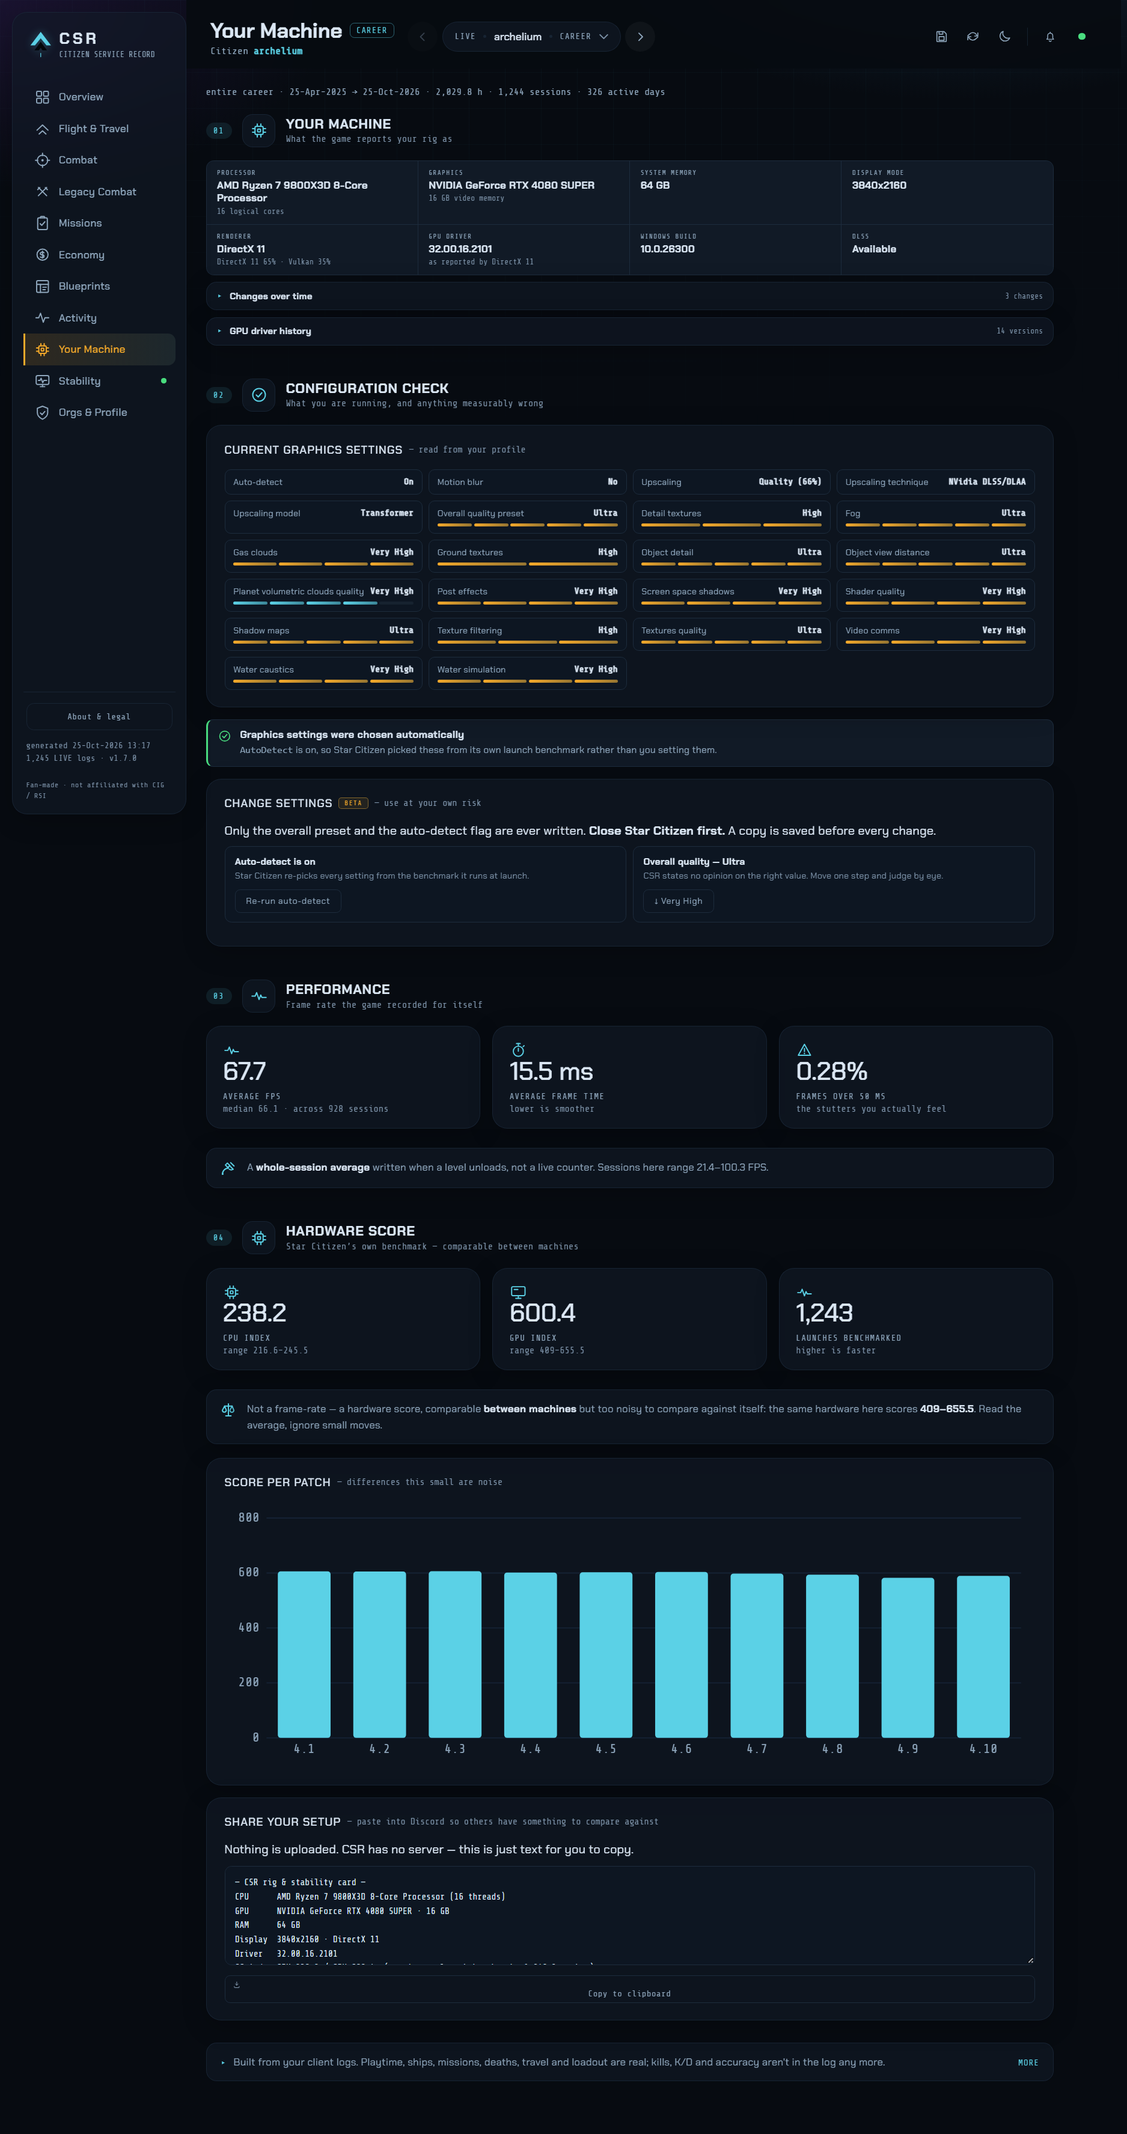
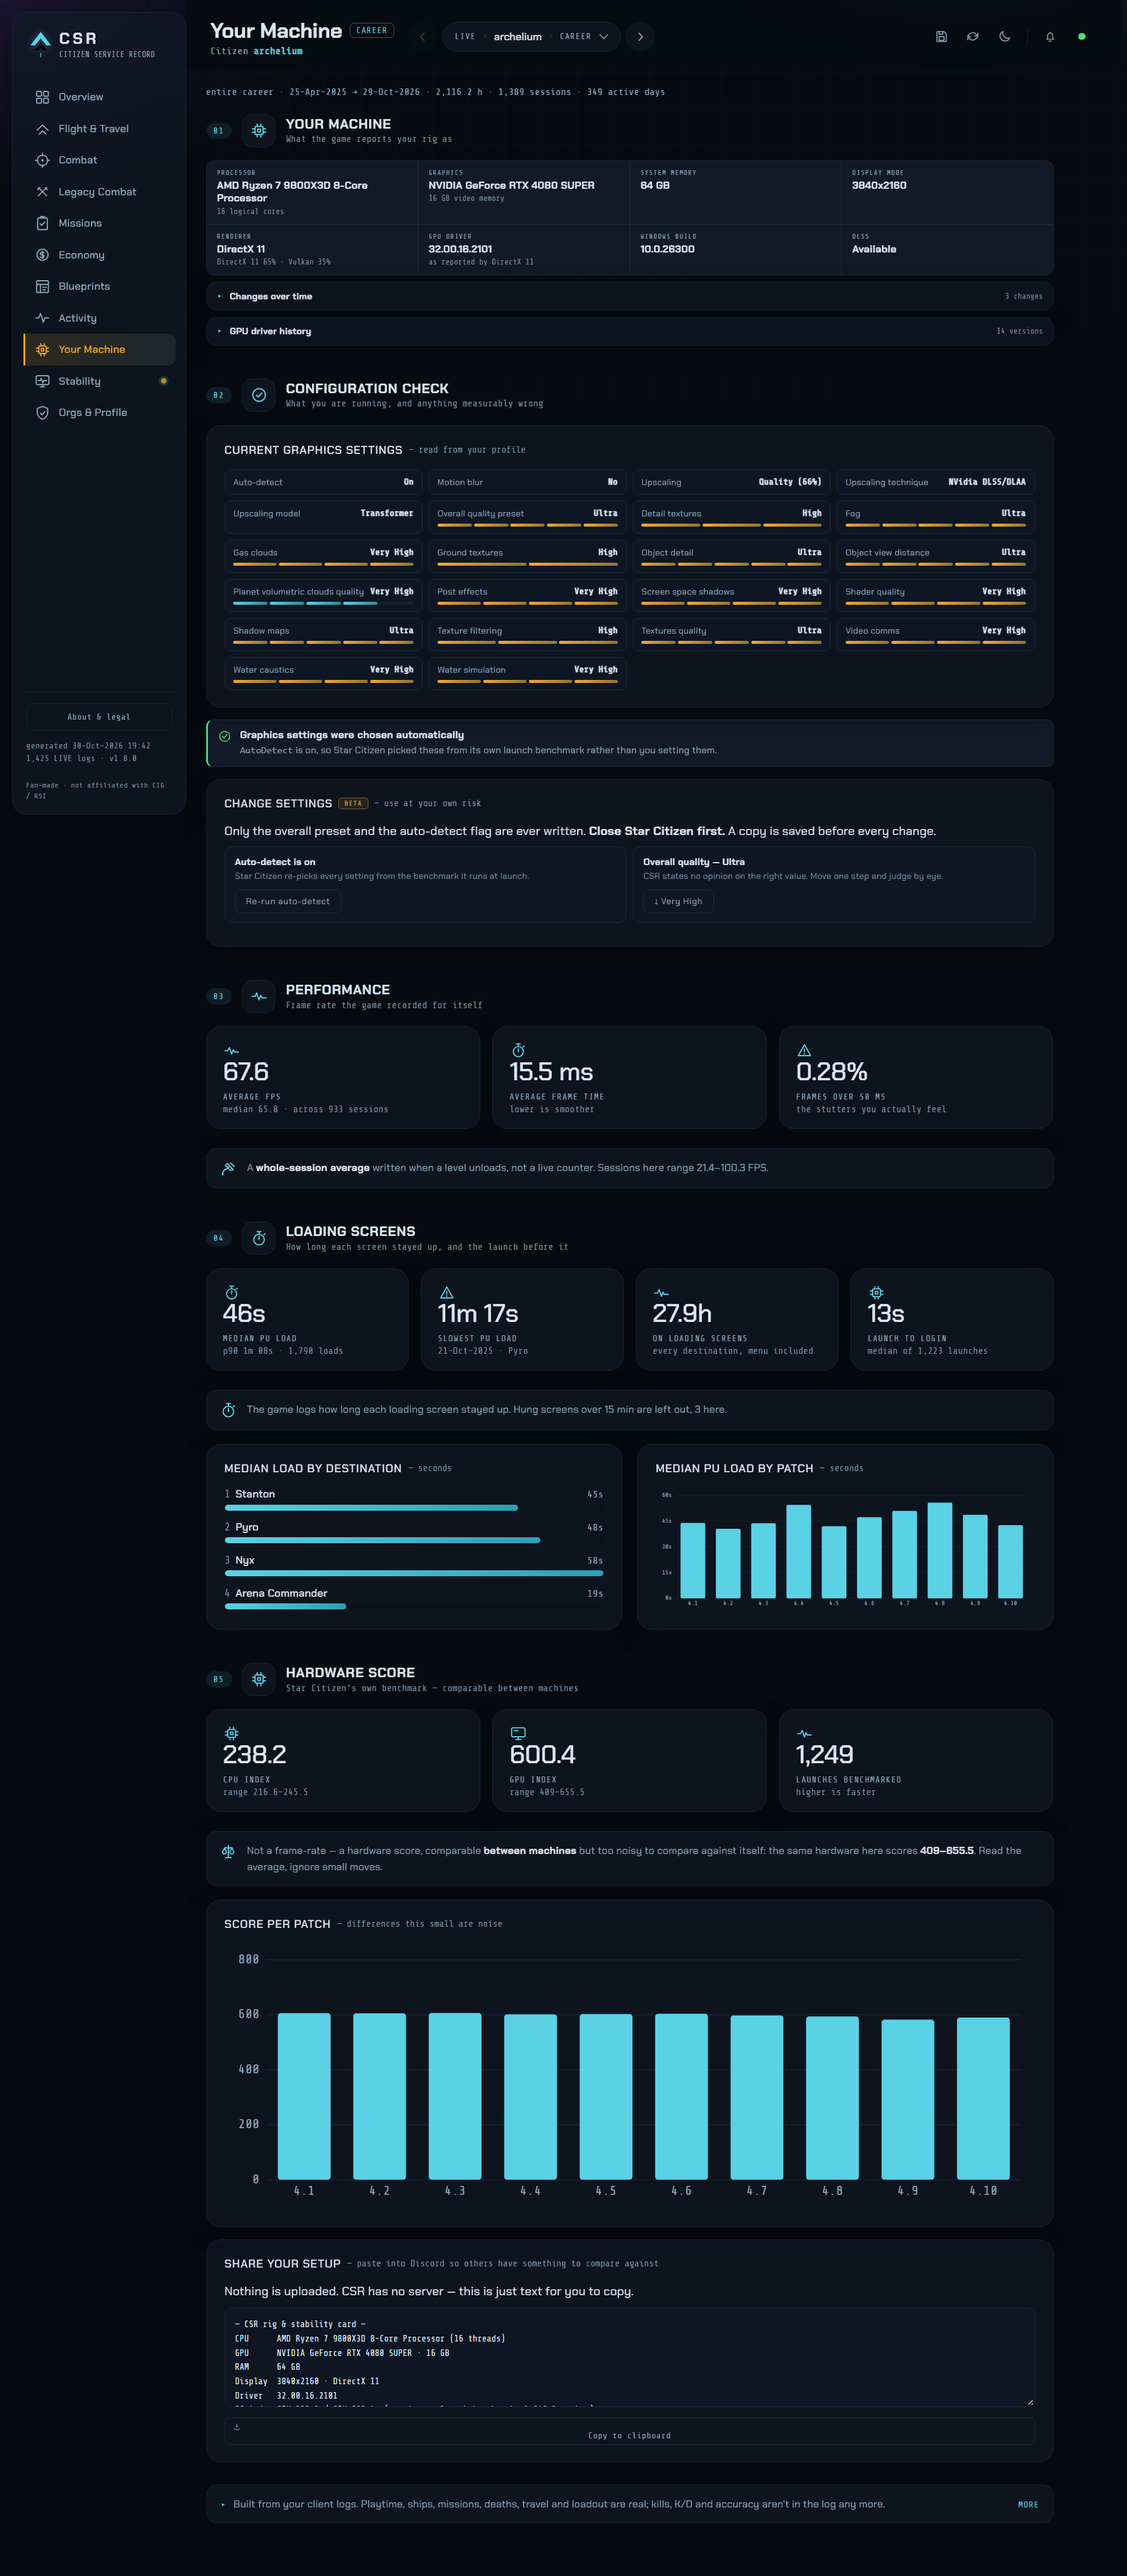
docs: README and screenshots for 1.8.0
Retake all five screenshots on 1.8.0. Add loading screens, where your hours
go, places visited and out of air to the feature list and the Your Machine and
Flight & Travel captions. Move the upgrade table to 1.8.0.

diff --git a/README.md b/README.md
@@ -43,16 +43,19 @@ servers you joined: region, distinct servers, and hops between them.
 
 ### Your Machine
 
-The rig the game saw, your graphics settings in the menu's own wording, and a
-configuration check that flags what is measurably wrong.
+The rig the game saw, your graphics settings in the menu's own wording, a
+configuration check that flags what is measurably wrong, and how long your loading
+screens take, by destination and by patch.
 
-![Your Machine — hardware, graphics settings and configuration check](docs/img/machine.png)
+![Your Machine — hardware, graphics settings, configuration check and loading screens](docs/img/machine.png)
 
 ### Flight &amp; Travel
 
-Ships flown, time aboard and in the pilot seat, hull-size mix, roles, and quantum travel.
+Ships flown, time aboard and in the pilot seat, hull-size mix, roles, quantum travel,
+and the places you've been: stations, cities, rest stops and outposts, most visited
+first.
 
-![Flight and Travel — ships, hulls and quantum travel](docs/img/flight.png)
+![Flight and Travel — ships, hulls, quantum travel and places visited](docs/img/flight.png)
 
 </details>
 
@@ -105,12 +108,12 @@ CSR is portable, so updating is just **replace the exe**:
 keeps sessions Star Citizen has since deleted from your log folder. If you want a
 belt-and-braces backup first, open CSR and use **💾 Backup & transfer → Export**.
 
-What happens on your first run of v1.7.0, depending on where you're coming from:
+What happens on your first run of v1.8.0, depending on where you're coming from:
 
 | Coming from | What to expect |
 |---|---|
 | **v1.0.0** | v1.0.0 kept no archive, so your history is rebuilt from whatever logs you still have. If your saved folder was `…\StarCitizen\LIVE`, CSR now finds `PTU` and `TECH-PREVIEW` beside it on its own — **no need to re-pick a folder** — and a **Channel** dropdown appears if it finds any. |
-| **v1.1.0 – v1.6.0** | Your archive carries over untouched. |
+| **v1.1.0 – v1.7.0** | Your archive carries over untouched. |
 | **any** | The first scan re-reads **every** log (a minute or so). This is deliberate: each release fixes parsing bugs or extracts new data, so nothing older is trusted. It happens once — after that CSR starts, and refreshes, in about a second. |
 
 Coming from **v1.2.0** specifically, the first run also *moves* some existing numbers,
@@ -154,12 +157,13 @@ Patch* to filter to that patch (and *↩ View career* to reset).
 
 - **Overview** — RSI profile, snapshot KPIs, click-to-filter playtime-by-patch,
   signature top-3 ships (by time aboard) & guns with artwork
-- **Flight & Travel** — where you've been (jurisdictions, landing-zone visits, hangars requested, jumps as crew and the pilots you flew under, time in a party, CrimeStat rises — from the HUD notices, 4.5+), *ships & hulls* (distinct ships, boardings, take-offs, time aboard ships, fleet
+- **Flight & Travel** — where you've been (jurisdictions, landing-zone visits, hangars requested, jumps as crew and the pilots you flew under, time in a party, CrimeStat rises — from the HUD notices, 4.5+), *places visited* (every station, city, rest stop and outpost you landed or docked at, your home base, the 15 you visit most), *ships & hulls* (distinct ships, boardings, take-offs, time aboard ships, fleet
   size, most-flown by time aboard with seat time and first/last flown dates, hull-size mix, roles) and
   *travel & navigation* (quantum jumps, jumps per session/hour, systems visited)
 - **Combat** — *ship combat* (how you lost ships), *FPS combat* (loadout ranked by
   how often each weapon was drawn, plus reloads and carry), *injuries & treatment*
-  (what hurt you, med-bed surgeries, hospital vs ship medbay), *gear lost on death*
+  (what hurt you, med-bed surgeries, hospital vs ship medbay, time out of air and how
+  often with no helmet on), *gear lost on death*
   (items and guns lost, what you lose most often), and *looting & inventory*
   (containers looted, items transferred, corpse loots)
 - **Legacy Combat** — real PvP/PvE kills & K/D from patches 4.1–4.3 (PU vs Arena
@@ -167,12 +171,14 @@ Patch* to filter to that patch (and *↩ View career* to reset).
 - **Missions** — outcomes, completion rate, mission types, contracts by name (4.5+), and cargo hauling: SCU delivered by commodity and destination
 - **Economy** — **real aUEC spent**, top items bought, what you buy, cargo & commodities
 - **Blueprints** — every crafting blueprint the game has handed you (4.7+), searchable, plus what you're still missing against the full ~1,600-blueprint catalogue; armour as sets (which one is a piece from complete), ship weapons as S1–S6 ladders, components as a type × size grid; and a **planner**: which missions drop a blueprint, what faction standing they need, and the reputation floor your completed contracts put you at
-- **Activity** — playtime by month, weekday×hour heatmap, session-length mix, streaks
+- **Activity** — playtime by month, where your hours go (starting up, loading screens,
+  main menu, aboard a ship, on foot), weekday×hour heatmap, session-length mix, streaks
 - **Your Machine** — the rig you played on (CPU, GPU + VRAM, memory, driver, renderer,
   Windows build) and when it changed; a **configuration check** that flags measurable
   problems (most usefully: *Star Citizen is rendering on the wrong graphics card*);
-  **frame rate** per session; the game's own hardware benchmark; and a **shareable rig
-  card**
+  **frame rate** per session; **loading screens** (median PU load, the slowest, total
+  time spent on them, launch to login, by destination and by patch); the game's own
+  hardware benchmark; and a **shareable rig card**
 - **Stability** — everything that goes wrong, with a **live dot in the sidebar** that
   pulses while CSR is tailing your logs:
   - **Crash analysis** naming the fault in the game's own words, split into faults you
